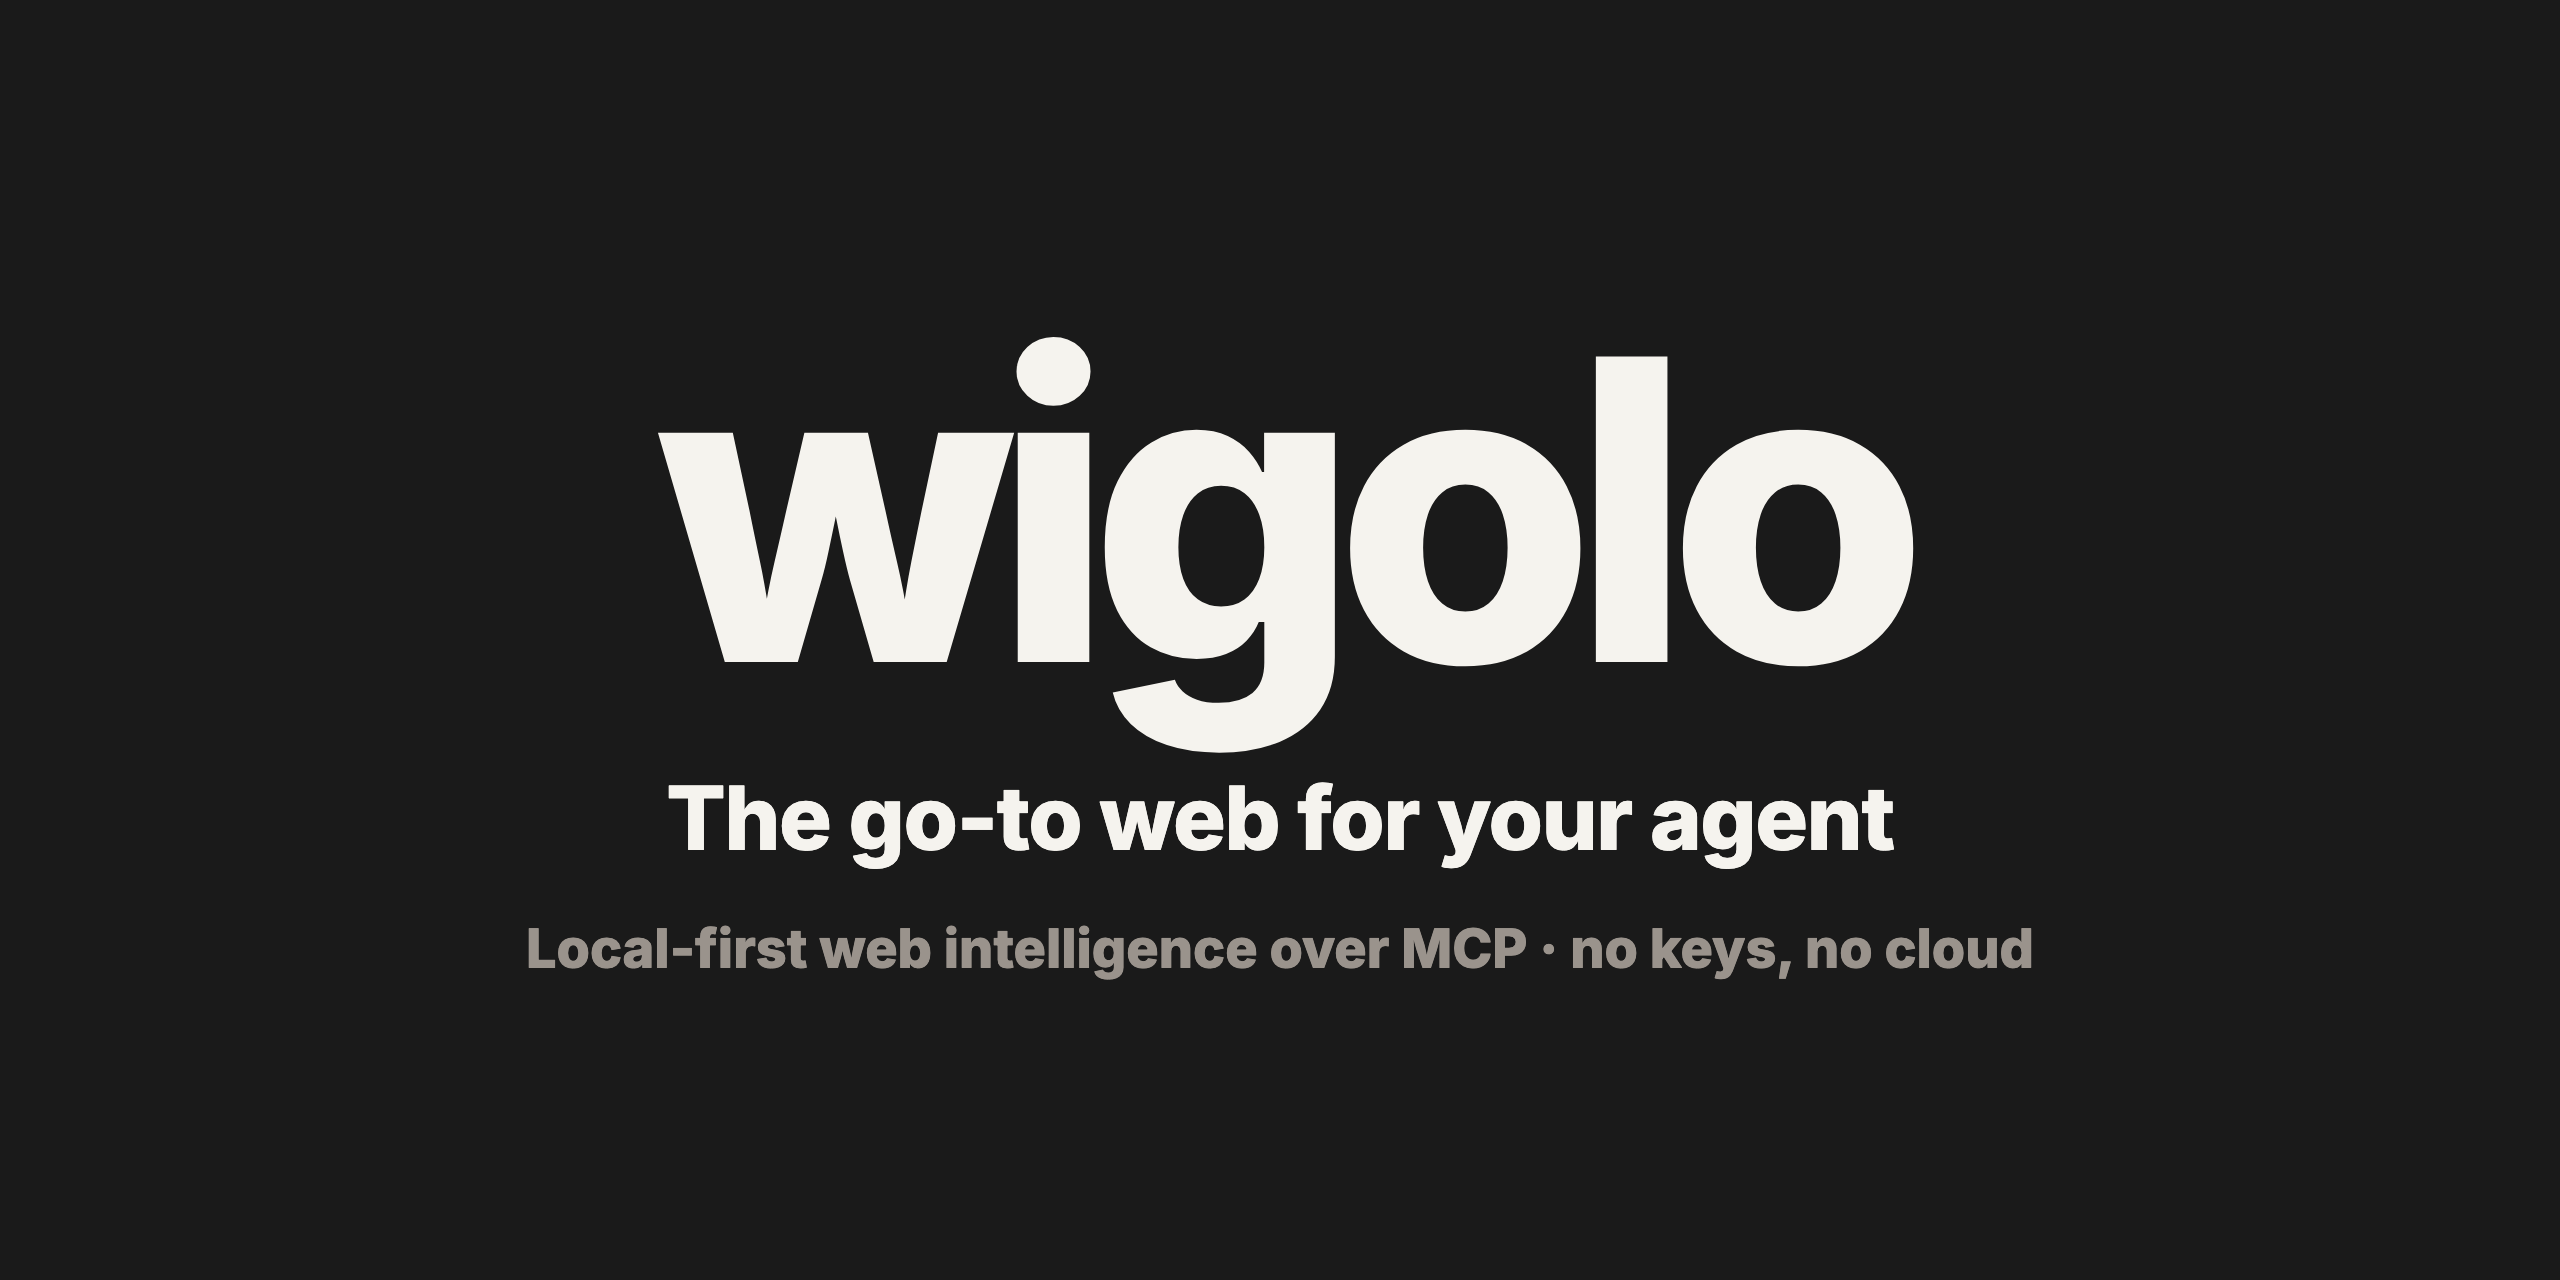
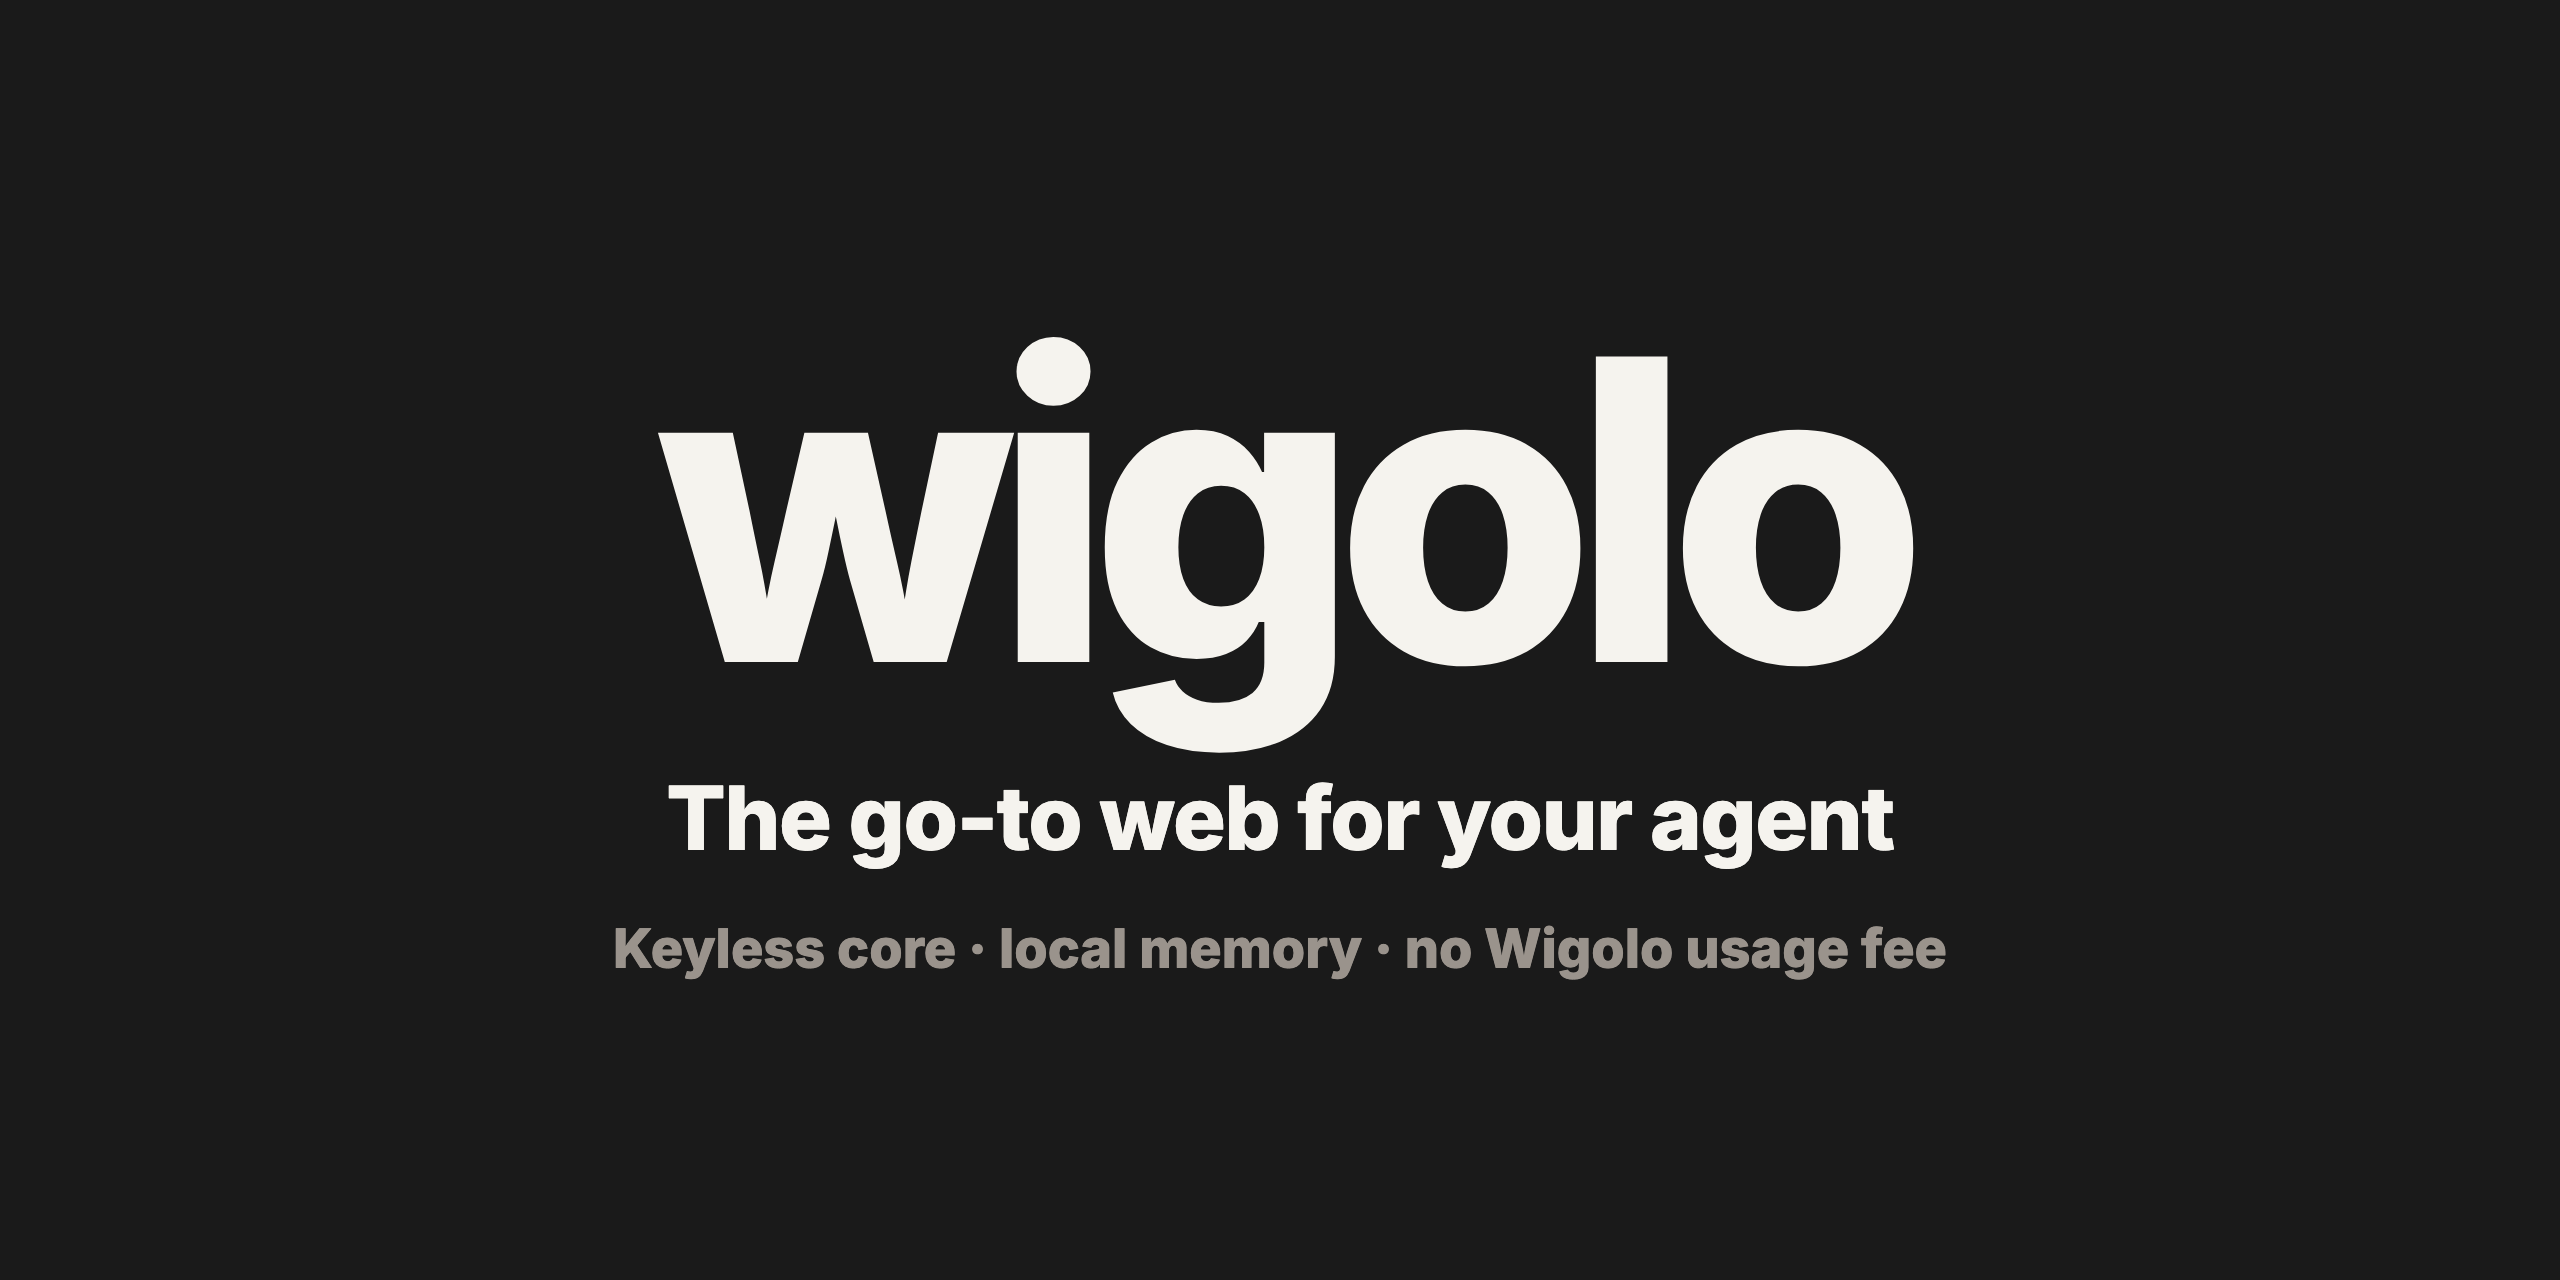
docs(claims): align public copy with evidence
Clarify web egress, source-span semantics, comparison scope, vendor access, AGPL obligations, and the CI-tested Node LTS range.

Changed region(s): [[0.1875, 0.7188, 0.8125, 0.7812]]

diff --git a/site/src/components/Parity.tsx b/site/src/components/Parity.tsx
@@ -14,12 +14,11 @@ const FIGHT: Row[] = [
 ];
 
 const PHYSICS: Row[] = [
-  { label: "Verbatim excerpts pinned to byte-offset source spans", cells: [true, false, false, false] },
+  { label: "Verbatim excerpts with character offsets in extracted Markdown", cells: [true, false, false, false] },
   { label: "Explainable per-result score decomposition", cells: [true, false, false, false] },
   { label: "Persistent local memory — instant, offline re-query", cells: [true, false, false, false] },
-  { label: "Query data stays on your machine", cells: [true, false, false, false] },
-  { label: "API key / account", cells: ["none", "required", "required", "required"] },
-  { label: "Cost per query", cells: ["$0", "metered", "metered", "metered"] },
+  { label: "Default/core access", cells: ["keyless", "key for full API", "free tier / x402", "keyless Search / Extract"] },
+  { label: "Paid usage", cells: ["no Wigolo fee", "after allowance", "after allowance", "after allowance"] },
 ];
 
 function Mark({ v }: { v: Cell }) {
@@ -57,16 +56,17 @@ export default function Parity() {
     <section className={styles.section}>
       <div className={`container ${styles.inner}`}>
         <Reveal className={styles.head}>
-          <span className="eyebrow">Parity</span>
+          <span className="eyebrow">Feature snapshot</span>
           <h2 className={styles.title}>
-            Same fight.
+            Same category.
             <br />
-            Different physics.
+            Different architecture.
           </h2>
           <p className={styles.lede}>
-            The paid tools in this lane are genuinely good — that&apos;s what
-            makes the parity interesting. What still separates wigolo isn&apos;t
-            quality. It&apos;s where the work happens.
+            One recorded query showed all four tools converging on the same core
+            answer. That is a useful demonstration, not a general quality
+            benchmark. Wigolo&apos;s durable distinction is where its state and
+            ranking work live.
           </p>
         </Reveal>
 
@@ -94,9 +94,9 @@ export default function Parity() {
             </tbody>
           </table>
           <p className={styles.foot}>
-            Feature standing as of July 2026 — check each vendor&apos;s docs
-            for current state. One cold query, four tools, judged on the
-            evidence alone —{" "}
+            Feature standing as of July 2026. Access modes and allowances
+            change; check each vendor&apos;s current docs. One cold query, four
+            tools, judged on the evidence alone —{" "}
             <a
               href="https://github.com/KnockOutEZ/wigolo#benchmark"
               target="_blank"
@@ -110,7 +110,7 @@ export default function Parity() {
           <img
             className={styles.meter}
             src={asset("/promo/meter.svg")}
-            alt="The meter: a metered cloud API's cost climbs with every query while wigolo stays flat at zero dollars — illustrative pricing"
+            alt="Illustrative comparison: a metered cloud API's cost rises with usage while Wigolo itself charges no API usage fee"
             loading="lazy"
           />
         </Reveal>

diff --git a/site/src/components/HowItWorks.tsx b/site/src/components/HowItWorks.tsx
@@ -132,9 +132,10 @@ export default function HowItWorks() {
               <span className={styles.pillarName}>search</span>
             </div>
             <p className={styles.pillarBody}>
-              <b>18 search-engine adapters</b> fan out in parallel, then rank
-              fusion and an on-device <b>ML reranker</b> settle the order — with
-              an explainable score behind every single result.
+              Up to <b>18 search sources</b>, selected by mode and availability,
+              fan out in parallel. Rank fusion and an on-device{" "}
+              <b>ML reranker</b> settle the order with inspectable score
+              components.
             </p>
             <div className={styles.steps}>
               <div className={styles.step}>
@@ -160,9 +161,10 @@ export default function HowItWorks() {
               <span className={styles.pillarName}>cache</span>
             </div>
             <p className={styles.pillarBody}>
-              Everything fetched lands in a <b>local index</b> — keyword search
-              paired with on-device vectors. Re-asking is <b>instant and free</b>
-              , and it still answers when you&apos;re offline.
+              Successfully fetched content lands in a <b>local index</b> —
+              keyword search paired with on-device vectors. Re-asking is{" "}
+              <b>local and fast</b>, and cached content remains available when
+              you&apos;re offline.
             </p>
             <div className={styles.steps}>
               <div className={styles.step}>
@@ -183,8 +185,9 @@ export default function HowItWorks() {
 
         <Reveal className={styles.closer} as="div" delay={80}>
           Models and cache live under <code>~/.wigolo</code> on your machine —
-          no keys, nothing metered, and nothing leaves unless you opt into an
-          LLM.
+          core tools need no vendor key or Wigolo usage fee. Live requests go
+          directly to selected public engines and sites; external LLM
+          synthesis is opt-in.
         </Reveal>
       </div>
     </section>

diff --git a/site/src/components/Testimonials.tsx b/site/src/components/Testimonials.tsx
@@ -9,31 +9,31 @@ type Receipt = {
   detail: string;
 };
 
-// Real findings from wigolo's parity benchmark — one cold query, four web
+// Real findings from wigolo's recorded comparison — one cold query, four web
 // tools on equal footing, judged by the agent on the evidence alone.
 const RECEIPTS: Receipt[] = [
   {
     tag: "Provenance",
     quote:
-      "Verbatim quoted excerpts, pinned to byte-offset source spans with citation IDs.",
+      "Verbatim quoted excerpts, pinned to character offsets in extracted Markdown with citation IDs.",
     detail: "wigolo · the only tool of four to return this",
   },
   {
     tag: "Explainable scoring",
     quote:
       "A score decomposition per result — semantic, lexical, and engine consensus, shown, not asserted.",
-    detail: "wigolo · parity benchmark",
+    detail: "wigolo · recorded comparison",
   },
   {
     tag: "Telemetry",
     quote: "Live per-engine telemetry, on-screen, for every single query.",
-    detail: "wigolo · parity benchmark",
+    detail: "wigolo · recorded comparison",
   },
   {
     tag: "Honesty by contract",
     quote:
       "Self-flagged junk — when two of its results were weak, its own scorer said so.",
-    detail: "wigolo · parity benchmark",
+    detail: "wigolo · recorded comparison",
   },
 ];
 

diff --git a/site/src/components/Tools.tsx b/site/src/components/Tools.tsx
@@ -50,7 +50,7 @@ function ResearchIcon() {
 /* ---- panel visuals (wigolo's real evidence surfaces) ---- */
 function EvidenceVisual() {
   return (
-    <pre className={styles.code} aria-label="Evidence object with score breakdown and byte-offset source span">
+    <pre className={styles.code} aria-label="Evidence object with score breakdown and character-offset source span">
       <span className={styles.dim}>{"// every result explains itself"}</span>
       {"\n{"}
       {"\n  "}<span className={styles.key}>&quot;excerpt&quot;</span>: <span className={styles.str}>&quot;Logical replication replicates data…&quot;</span>,
@@ -129,7 +129,7 @@ const FEATURES: Feature[] = [
     tab: "Search & Evidence",
     icon: <SearchIcon />,
     heading: "Evidence, not blue links",
-    body: "One MCP call fans a query array across many engines in parallel. Every result comes back with a transparent score breakdown, byte-offset source spans, and citation IDs — output your agent can quote.",
+    body: "One MCP call fans a query array across many engines in parallel. Every result can include an inspectable score breakdown, character offsets into extracted Markdown, and citation IDs — output your agent can quote.",
     cta: "See the receipts",
     href: "#parity",
     visual: <EvidenceVisual />,
@@ -148,8 +148,8 @@ const FEATURES: Feature[] = [
     id: "cache",
     tab: "Local Cache",
     icon: <CacheIcon />,
-    heading: "Everything it sees, it keeps",
-    body: "Every response lands in a local store under ~/.wigolo/ — full text, keyword index, and on-device vectors. Asking again is instant and costs nothing; find_similar and change detection build on it.",
+    heading: "Successfully cached, locally reusable",
+    body: "Successfully fetched content lands in a local store under ~/.wigolo/ — full text, keyword index, and on-device vectors. Asking again avoids another network round trip and Wigolo usage fee; find_similar and change detection build on it.",
     cta: "Get started",
     href: "#quickstart",
     visual: <CacheVisual />,

diff --git a/site/src/components/Feedback.tsx b/site/src/components/Feedback.tsx
@@ -79,9 +79,10 @@ export default function Feedback() {
             Say it.
           </h2>
           <p className={styles.lede}>
-            wigolo is in public beta — everything shipped works, and it&apos;s
-            held to a 6,000-test suite, but beta means the polish is still
-            being sanded. Every report is read, usually the same day.
+            wigolo is in public beta, and the repository contains more than
+            7,600 automated tests. Supported runtime and operating-system
+            combinations run in CI; beta marks remaining compatibility,
+            API-shape, and polish work. Every report is read, usually the same day.
           </p>
           <div className={styles.ctas}>
             <a href={FEEDBACK_LINKS.bug} className="btn btn-primary" target="_blank" rel="noreferrer">

diff --git a/site/src/components/OpenSource.tsx b/site/src/components/OpenSource.tsx
@@ -12,7 +12,7 @@ const ACTIONS = [
   {
     glyph: "☕",
     title: "Sponsor it",
-    body: "No paid tier, ever. If wigolo saves you a metered search bill, a coffee keeps it maintained.",
+    body: "Wigolo has no paid tier. If it saves you a metered search bill, a coffee keeps it maintained.",
     cta: "Buy me a coffee",
     href: "https://buymeacoffee.com/knockoutez",
   },
@@ -45,8 +45,9 @@ export default function OpenSource() {
           </h2>
           <p className={styles.body}>
             wigolo is AGPL-3.0 — free to use, modify, and self-host, including
-            inside a company. The license keeps it open: nobody can close it up
-            and sell it back to you. Maintained, not paywalled.
+            inside a company. Released versions stay open, and covered modified
+            network deployments carry source-availability obligations.
+            Maintained, not paywalled.
           </p>
           <p className={styles.byline}>
             built and maintained by{" "}

diff --git a/site/src/app/layout.tsx b/site/src/app/layout.tsx
@@ -21,7 +21,7 @@ const mono = Azeret_Mono({
 
 const TITLE = "wigolo — local-first web intelligence for AI agents";
 const DESCRIPTION =
-  "Free, open-source server that gives any AI agent real web powers — search across 18 engines, fetch, crawl, extract, cache, and research. In your editor over MCP, in your framework through an SDK, or in your self-hosted stack over REST. Runs on your machine: no API keys, no cloud, no metered bill. Public beta.";
+  "Free, open-source server that gives any AI agent real web powers — search across 18 engines, fetch, crawl, extract, cache, and research. In your editor over MCP, in your framework through an SDK, or in your self-hosted stack over REST. Keyless core, local persistent state, and no Wigolo usage fee. Public beta.";
 
 export const metadata: Metadata = {
   metadataBase: new URL(SITE_URL),
@@ -59,7 +59,7 @@ export const metadata: Metadata = {
     siteName: "wigolo",
     title: TITLE,
     description:
-      "Local-first web intelligence over MCP. No keys, no cloud, no metered bill. Public beta.",
+      "Local-first web intelligence over MCP. Keyless core, local memory, no Wigolo usage fee. Public beta.",
     // Plain public path: metadataBase already carries the base path —
     // asset() here would double-prefix it.
     images: [{ url: "/wigolo/wigolo-social.png", width: 1200, height: 630 }],
@@ -68,7 +68,7 @@ export const metadata: Metadata = {
     card: "summary_large_image",
     title: TITLE,
     description:
-      "Local-first web intelligence over MCP. No keys, no cloud, no metered bill. Public beta.",
+      "Local-first web intelligence over MCP. Keyless core, local memory, no Wigolo usage fee. Public beta.",
     images: ["/wigolo/wigolo-social.png"],
   },
 };

diff --git a/site/src/components/Hero.tsx b/site/src/components/Hero.tsx
@@ -42,8 +42,9 @@ export default function Hero() {
             wigolo is a local-first server that hands any AI agent the whole
             web — search, fetch, crawl, extract, cache, and research. In your
             editor over MCP, in your framework through an SDK, or in your
-            self-hosted stack over REST. No API keys. No cloud. No metered
-            bill.
+            self-hosted stack over REST. Core tools need no vendor API key,
+            persistent state stays local, and Wigolo charges no usage fee.
+            Live requests still contact the public engines and sites you choose.
           </p>
           <p className={styles.agents}>
             claude code · cursor · codex · gemini cli · vs code · windsurf ·

diff --git a/site/src/components/Footer.tsx b/site/src/components/Footer.tsx
@@ -7,7 +7,7 @@ const COLS: { title: string; links: { label: string; href: string; ext?: boolean
     links: [
       { label: "Tools", href: "#tools" },
       { label: "Docs", href: `${BASE_PATH}/docs` },
-      { label: "Parity", href: "#parity" },
+      { label: "Comparison", href: "#parity" },
       { label: "Quickstart", href: "#quickstart" },
       { label: "Feedback", href: "#feedback" },
     ],
@@ -82,7 +82,7 @@ export default function Footer() {
           </a>
           <div className={styles.bottomRight}>
             <span className={styles.status}>
-              <span className={styles.dot} /> All systems local
+              <span className={styles.dot} /> Local engine active
             </span>
             <span className={styles.copy}>
               public beta · AGPL-3.0 · built by @KnockOutEZ

diff --git a/site/src/components/Nav.tsx b/site/src/components/Nav.tsx
@@ -8,7 +8,7 @@ const EXAMPLES_URL = `${GH}/tree/main/examples`;
 
 const LINKS: { label: string; href: string; ext?: boolean }[] = [
   { label: "Tools", href: "#tools" },
-  { label: "Parity", href: "#parity" },
+  { label: "Comparison", href: "#parity" },
   { label: "Docs", href: `${BASE_PATH}/docs` },
   { label: "Examples", href: EXAMPLES_URL, ext: true },
   { label: "Quickstart", href: "#quickstart" },

diff --git a/site/src/components/Quickstart.tsx b/site/src/components/Quickstart.tsx
@@ -38,7 +38,7 @@ const STEPS = [
     title: "Check it's healthy",
     note: "Verifies the local engine — search, browser, on-device models.",
     cmd: "npx wigolo doctor",
-    foot: "Node ≥ 20 · macOS / Linux / Windows · no account, no key.",
+    foot: "Node 20 / 22 / 24 LTS · macOS / Linux / Windows · no account or key for core tools.",
   },
   {
     n: "3",

diff --git a/site/src/components/StartShipping.tsx b/site/src/components/StartShipping.tsx
@@ -8,7 +8,7 @@ export default function StartShipping() {
         <div className={styles.media}>
           <img
             src={asset("/promo/ask-twice.svg")}
-            alt="Ask twice, pay never: first query hits the live web in 3.6 seconds, the second answers from local cache in milliseconds, the third still answers offline"
+            alt="Ask twice, hit the web once: first query hits the live web in 3.6 seconds, the second answers from local cache in milliseconds, the third still answers offline"
           />
         </div>
         <div className={styles.text}>